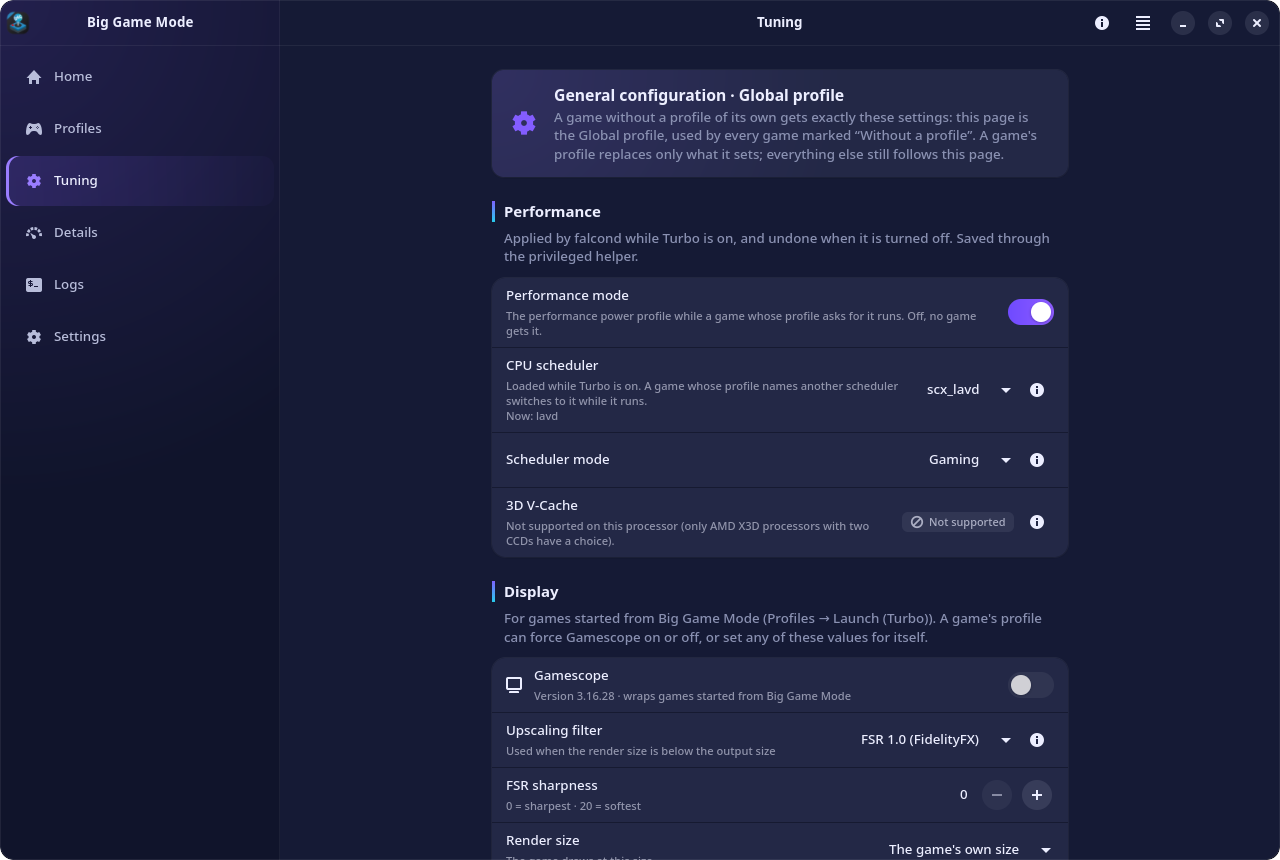
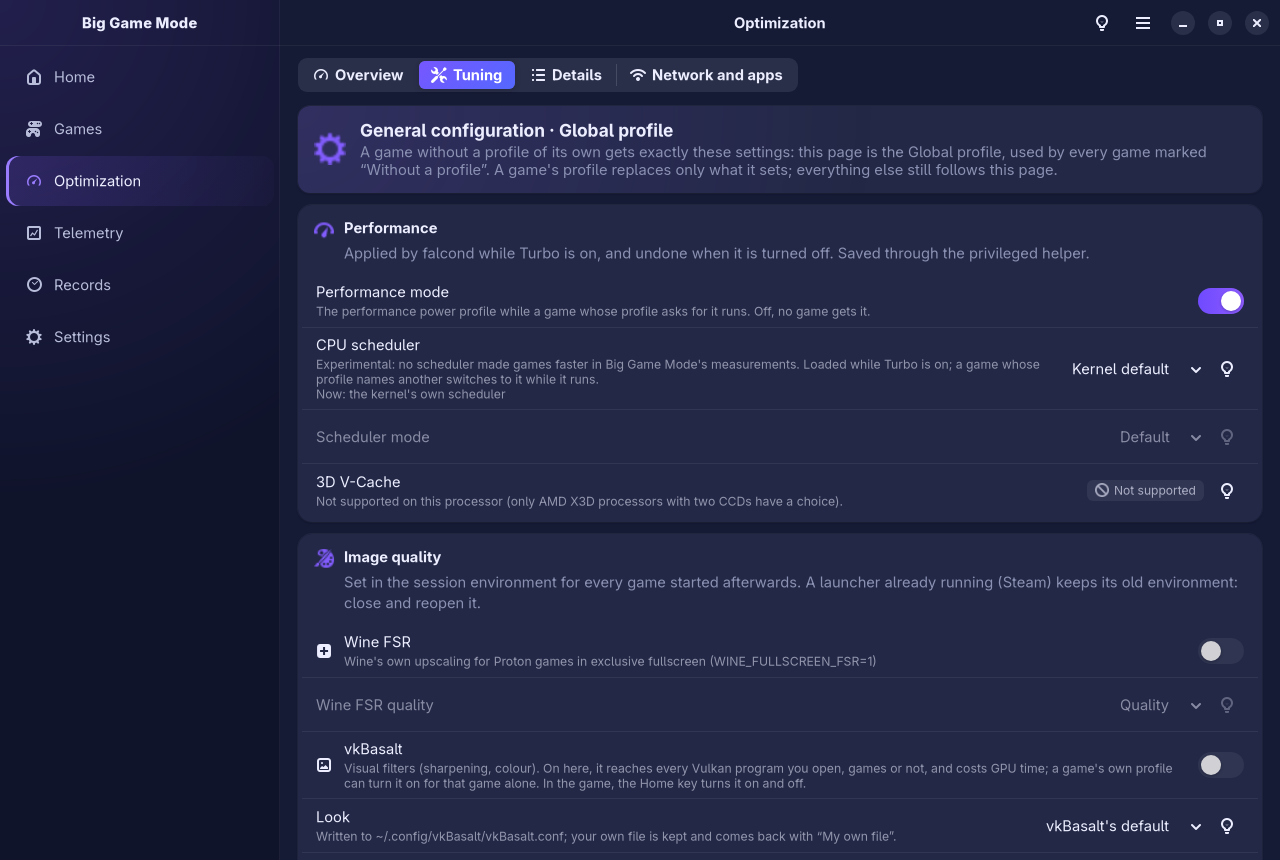
release: Big Game Mode 3.0.0
The version is 3.0.0 in the workspace, Cargo.lock, the PKGBUILD
(pkgrel 1) and the AppStream file, whose 3.0.0 release takes in what was
to be 2.5.0 (never released). The README says what is new, its badge
says the version, the troubleshooting and the architecture follow the new
pages, and the screenshots are of 3.0.0: Games and a game's page, Tuning,
AI Graphics, Records, Telemetry, Settings, About and Home in both themes.

diff --git a/README.md b/README.md
@@ -6,10 +6,10 @@
 
 **BigLinux's game mode.**<br>
 One switch for per-game performance, presets for what games should favour,
-AI Graphics with full backup and undo, and a page that shows — with evidence —
-what is really in effect.
+a library that says how each game runs on Linux, AI Graphics with full backup
+and undo, and a page that shows — with evidence — what is really in effect.
 
-[![Version](https://img.shields.io/badge/version-2.4.0-6c5ce7?style=for-the-badge)](https://github.com/biglinux/bigamemode/releases)
+[![Version](https://img.shields.io/badge/version-3.0.0-6c5ce7?style=for-the-badge)](https://github.com/biglinux/bigamemode/releases)
 [![License](https://img.shields.io/badge/license-GPL--3.0--or--later-2ea44f?style=for-the-badge)](LICENSE)
 [![Rust](https://img.shields.io/badge/Rust-1.88%2B-dea584?style=for-the-badge&logo=rust&logoColor=white)](https://www.rust-lang.org/)
 [![GTK4](https://img.shields.io/badge/GTK4-libadwaita-4a86cf?style=for-the-badge&logo=gnome&logoColor=white)](https://gnome.pages.gitlab.gnome.org/libadwaita/)
@@ -26,7 +26,7 @@ what is really in effect.
 
 <picture>
   <source media="(prefers-color-scheme: light)" srcset="docs/screenshots/home-light.png">
-  <img src="docs/screenshots/home.png" width="860" alt="Big Game Mode's Home page in simple mode: Turbo in words, three choices and Back to normal">
+  <img src="docs/screenshots/home.png" width="860" alt="Big Game Mode's Home page: the Turbo card with its three presets and Back to normal, and the Now card">
 </picture>
 
 </div>
@@ -47,7 +47,31 @@ a way back.
 > One rule runs through the project: **nothing is offered that the machine
 > cannot do, and nothing is called an improvement without a measurement.**
 
-## What's new in 2.5.0
+## What's new in 3.0.0
+
+**A new layout, one purpose per page.** Seven pages became six, in the
+order a person uses them:
+
+| Page | What it holds |
+|---|---|
+| **Home** | One **Turbo** card — the switch, the three presets under it with what the chosen one does, and Back to normal — and a **Now** card with the game being played: its cover, launcher, how long it has run, its ProtonDB and anti-cheat tags, and one coloured flag per feature it really got. With no game, it says what Turbo is doing and where to start one. |
+| **Games** | The library (formerly Profiles), each game with its profile and its compatibility. |
+| **Optimization** | Tabs: **Overview** (the machine at a glance and the recommendations for its own hardware and packages), **Tuning**, **Details**, and **Network and apps** (the connection and DNS, the programs beside the game, Steam's launch options). |
+| **Telemetry** | The live charts, as before. |
+| **Records** | Tabs: **Reports** (the last Turbo report and the support report), **Games that crashed**, and **Logs**. |
+| **Settings** | As before, with Game Information. |
+
+- **Recommendations instead of Problems.** Each says whether it is
+  *Recommended*, needs your *Attention*, is *Not supported* on this hardware,
+  *Informative*, *Already adequate*, or *Needs measurement*, and leads to the
+  page that changes it. Nothing is applied from the list: there is no
+  "apply all", a DNS is never changed and a program never paused or closed
+  without you asking.
+- **Simple and advanced share everything.** Simple mode hides the Tuning,
+  Details and Logs tabs instead of whole pages; a page saved by an older
+  version opens where its content went.
+- **Icons that are not in every theme** ship with the application, so no
+  page shows a missing image outside BigLinux's icon theme.
 
 **Your library knows how each game runs on Linux.** Every card says, at a
 glance and without leaving the library:
@@ -96,7 +120,7 @@ Mode only said "Cyberpunk 2077 closed", as for a game quit from its menu.
   Wine FSR out of that game alone from its next start, written where its
   launcher reads it (an open Steam is closed and opened again around the
   write, never while it runs a game). Nothing changes until it is chosen;
-  Profiles puts them back.
+  Games puts them back.
 - **FSR 4 can be switched off for one game**, whatever the Pretty preset
   asks for the others.
 - Details lists the last crashes, the support report carries them, and
@@ -310,7 +334,7 @@ release (HTTPS, pinned SHA-256) with a verified backup, or raises FSR 3.1 to
 FSR 4 through Proton. **Check Again**, **Repair**, **Restore** and **Diagnose**
 are always there. Games with anti-cheat are never touched.
 
-### Telemetry, details and logs
+### Optimization, Telemetry and Records
 
 **Telemetry** shows, once a second, what the processor (load, the fastest
 core's clock and the average, temperature), memory (and swap), the disks
@@ -324,15 +348,21 @@ Nothing is read while a game has the screen.
 anti-cheat status from Are We Anti-Cheat Yet? and Steam's player count; the
 game's page explains each, with its source, its age and a link.
 
-**Details** says for every part whether it is **active**, **waiting**,
-**configured but not detected**, **off**, **missing a dependency** or
-**unsupported**, with the evidence and the fix. It adds the video pipeline, a
-ranked **Problems** list, the games that closed with an error and what was in
-them, the network with a DNS comparison, background load, broken Steam launch
-options and a support report.
-**Logs** gathers falcond, the helper, power-profiles-daemon, scx_loader,
-Gamescope, GPU drivers, crashes and, from Steam games' output, Proton/Wine,
-MangoHud, vkBasalt, lsfg-vk and OptiScaler, filtered by source.
+**Optimization** opens on an **Overview**: the machine at a glance and the
+**Recommendations** for its own hardware and packages, each *Recommended*,
+*Attention*, *Not supported*, *Informative*, *Already adequate* or *Needs
+measurement*, with the command to copy or a button to the page that fixes
+it. Its **Details** tab says for every part whether it is **active**,
+**waiting**, **configured but not detected**, **off**, **missing a
+dependency** or **unsupported**, with the evidence and the fix, and adds the
+video pipeline. **Network and apps** has the network with a DNS comparison,
+background load and broken Steam launch options.
+
+**Records** keeps the last Turbo report and the support report, the games
+that closed with an error and what was in them, and the **Logs**: falcond,
+the helper, power-profiles-daemon, scx_loader, Gamescope, GPU drivers,
+crashes and, from Steam games' output, Proton/Wine, MangoHud, vkBasalt,
+lsfg-vk and OptiScaler, filtered by source.
 
 ### Measure the difference
 
@@ -350,31 +380,44 @@ Closing the window keeps Big Game Mode in the tray, with Turbo, the presets and
 
 <table>
 <tr>
-<td width="50%"><img src="docs/screenshots/profiles.png" alt="Profiles: the library of installed games, each with Play"></td>
-<td width="50%"><img src="docs/screenshots/tuning.png" alt="Tuning: performance, Gamescope, image quality and frame generation"></td>
+<td width="50%"><img src="docs/screenshots/games.png" alt="Games: the library of installed games, with ProtonDB, anti-cheat and player counts"></td>
+<td width="50%"><img src="docs/screenshots/game.png" alt="A game's page: Linux compatibility, anti-cheat and Steam activity"></td>
 </tr>
 <tr>
-<td align="center"><b>Profiles</b>: every installed game, Play on each</td>
-<td align="center"><b>Tuning</b>: what the machine cannot do is shown as such</td>
+<td align="center"><b>Games</b>: every installed game, with how it runs on Linux</td>
+<td align="center"><b>A game's page</b>: its compatibility, sources and dates</td>
 </tr>
 <tr>
-<td><img src="docs/screenshots/ai-graphics.png" alt="AI Graphics: the verdict for a game and what to do"></td>
-<td><img src="docs/screenshots/details.png" alt="Details: what is in effect, with the evidence"></td>
+<td><img src="docs/screenshots/optimization.png" alt="Optimization: the machine at a glance and its recommendations"></td>
+<td><img src="docs/screenshots/details.png" alt="Optimization, Details: what is in effect, with the evidence"></td>
 </tr>
 <tr>
-<td align="center"><b>AI Graphics</b>: the verdict first, then why</td>
+<td align="center"><b>Optimization</b>: what would help this machine</td>
 <td align="center"><b>Details</b>: what is in effect, with the evidence</td>
 </tr>
 <tr>
-<td><img src="docs/screenshots/logs.png" alt="Logs: every source a game session depends on"></td>
-<td><img src="docs/screenshots/settings.png" alt="Settings: theme, background start, notifications and advanced options"></td>
+<td><img src="docs/screenshots/tuning.png" alt="Tuning: performance, Gamescope, image quality and frame generation"></td>
+<td><img src="docs/screenshots/ai-graphics.png" alt="AI Graphics: the verdict for a game and what to do"></td>
 </tr>
 <tr>
-<td align="center"><b>Logs</b>: every source, filtered</td>
-<td align="center"><b>Settings</b>: themes, and the switch for advanced options</td>
+<td align="center"><b>Tuning</b>: what the machine cannot do is shown as such</td>
+<td align="center"><b>AI Graphics</b>: the verdict first, then why</td>
 </tr>
 <tr>
-<td colspan="2" align="center"><img src="docs/screenshots/about.png" width="430" alt="About Big Game Mode"></td>
+<td><img src="docs/screenshots/records.png" alt="Records: the last Turbo report"></td>
+<td><img src="docs/screenshots/telemetry.png" alt="Telemetry: processor, memory, disks, network and every GPU"></td>
+</tr>
+<tr>
+<td align="center"><b>Records</b>: the Turbo report, crashes and logs</td>
+<td align="center"><b>Telemetry</b>: second by second</td>
+</tr>
+<tr>
+<td><img src="docs/screenshots/settings.png" alt="Settings: theme, background start, notifications, game information"></td>
+<td><img src="docs/screenshots/about.png" alt="About Big Game Mode"></td>
+</tr>
+<tr>
+<td align="center"><b>Settings</b>: themes, game information, advanced options</td>
+<td align="center"><b>About</b></td>
 </tr>
 </table>
 
@@ -454,19 +497,19 @@ terminal without opening a window (`--network` adds the DNS measurements), and
 | Symptom | What to do |
 |---|---|
 | Games seem stuck at 60 FPS | Before 2.4.0, *Locked 60 FPS* and *Enhanced graphics* capped every game at 60. Choose **Fastest**, then reopen Steam: it keeps the environment it was opened with |
-| Stutter in big games that no setting fixes | Details → Problems says when the game library is on a hard disk or adaptive sync is off: move the games to an SSD, turn adaptive sync on |
-| I can't find Tuning, Details or Logs | Settings → Advanced → **Show advanced options** |
-| Games get no performance profile | Install `falcond`: without it Turbo applies only the general settings. Details → Problems names anything else missing |
-| A game does not get its profile | Details shows whether falcond applies it and why not; falcond 2.0.3 or newer is needed for games that rename their main thread (Cyberpunk 2077) |
+| Stutter in big games that no setting fixes | Optimization → Overview says when the game library is on a hard disk or adaptive sync is off: move the games to an SSD, turn adaptive sync on |
+| I can't find Tuning, Details or Logs | They are tabs of Optimization and Records, shown in advanced mode: Settings → Advanced → **Show advanced options** |
+| Games get no performance profile | Install `falcond`: without it Turbo applies only the general settings. Optimization → Overview names anything else missing |
+| A game does not get its profile | Optimization → Details shows whether falcond applies it and why not; falcond 2.0.3 or newer is needed for games that rename their main thread (Cyberpunk 2077) |
 | A preset does not reach Steam's games | Steam keeps the settings it was opened with: use **Reopen Steam** in the notice |
 | A frame generation option is disabled | lsfg-vk is not installed or your `Lossless.dll` is not usable by it; the row says which |
-| AI Graphics left a game broken | Profiles → the game's menu → **Restore the game's graphics**, or AI Graphics → **Repair** |
+| AI Graphics left a game broken | Games → the game's menu → **Restore the game's graphics**, or AI Graphics → **Repair** |
 | No tray icon on GNOME | Install and enable an AppIndicator extension |
 | "falcond is not compatible with this processor" | The installed falcond was built for a newer x86-64 level than this processor's (falcond 2.0.14 built for x86-64-v3 stops with SIGILL without AVX2/BMI2). Turbo still comes on with the general settings; per-game profiles need a falcond built for the x86-64 baseline. Turning Turbo off and on again does not help. [CPU compatibility](docs/CPU-COMPATIBILITY.md) |
 | A game's tag says "Denied" or "Broken" | Its anti-cheat refuses Linux or does not work there, as players report it: online play will not work, whatever Big Game Mode or Proton does. Open the tag for the source |
 | A game shows no rating | It is not a Steam game, or nobody has reported on it yet, or Big Game Mode has not been able to ask: Settings → Game Information says which |
 | A game closed by itself | Big Game Mode says so when the game left a sign of a crash, with what was in it: **Leave them out of this game** for a while tells whether vkBasalt or FSR 4 had a part in it. A crash with nothing added is the game's, its drivers' or the system's |
-| Something else | Details → **Support report**, or `bigame-ui --diagnostics`, and the **Logs** page |
+| Something else | Records → Reports → **Support report**, or `bigame-ui --diagnostics`, and Records → **Logs** |
 
 ## How it works
 

diff --git a/docs/ARCHITECTURE.md b/docs/ARCHITECTURE.md
@@ -18,7 +18,7 @@ error.
 
 | Component | Where | Responsibility |
 |---|---|---|
-| UI | `bigame-engine/bigame-ui` (GTK4, libadwaita, `ksni` tray) | Never runs as root. Pages: Home, Profiles, Telemetry, Tuning, Details, Logs, Settings, and the Optimization Report over Home. Simple mode (the default, `advanced_mode = false` in `settings.toml`) shows Home, Profiles, Telemetry and Settings only, with Play on every game and Back to normal; Settings → Advanced shows the rest. While a game runs, no page reads anything unless its window is the active one, the game's exit is watched through a pidfd, and the process does its disk reads in the idle I/O class (a game it starts gets the normal class back). `--background` starts it hidden in the tray (login autostart); `--diagnostics [--network]` prints the support report and exits. |
+| UI | `bigame-engine/bigame-ui` (GTK4, libadwaita, `ksni` tray) | Never runs as root. Pages: Home (the Turbo card and the Now card), Games (the library), Optimization (tabs Overview, Tuning, Details, Network and apps), Telemetry, Records (tabs Reports, Games that crashed, Logs) and Settings; `win.go` opens a page or a page's tab (`optimization/tuning`), and a page saved by an earlier version opens where its content went (`window::migrate_tab`). Simple mode (the default, `advanced_mode = false` in `settings.toml`) hides the Tuning, Details and Logs tabs, with Play on every game and Back to normal; Settings → Advanced shows them. Icons the application uses that Adwaita lacks are in its resources, behind the icon theme's own. While a game runs, no page reads anything unless its window is the active one, the game's exit is watched through a pidfd, and the process does its disk reads in the idle I/O class (a game it starts gets the normal class back). `--background` starts it hidden in the tray (login autostart); `--diagnostics [--network]` prints the support report and exits. |
 | Core | `bigame-engine/bigame-core` (library, no UI) | Hardware and capability detection, Turbo (`turbo.rs`) and its presets (`turbo_preset.rs`: a layer of session variables over Tuning while Turbo is on — DXVK/VKD3D-Proton frame caps, Wine FSR, vkBasalt, `FSR4_UPGRADE`; native games launched by Big Game Mode are capped with MangoHud's limiter), the Booster engine (`booster/`), profiles and their migration, running-game detection (`running.rs`), recommendations (`recommend.rs`), the launch pipeline (`launcher.rs`, `gamescope.rs`), AI Graphics (`graphics/`), benchmarking (`benchmark/`), network measurement, logs, health and diagnostics. |
 | Helper | `bigame-engine/bigame-daemon` (root, system bus `com.biglinux.BiGameMode`, object `/com/biglinux/BiGameMode`) | The handful of writes the UI cannot do: `SaveProfile`, `DeleteProfile`, `ApplyFalcondConfig`, `SetVCacheMode`, `SetCpuGovernor`, `SetCpuEpp`, `SetGpuDpmLevel`, `SetGameBackend`, `ReleaseGameBackend`, plus the unauthenticated `Ping`. Started on demand by D-Bus through `bigame-daemon.service`. See [SECURITY.md](SECURITY.md). |
 | falcond | external system service | Matches game processes by name and applies their profile — performance power profile, sched-ext scheduler (through `scx_loader`), 3D V-Cache mode, idle inhibit — and restores everything when the game exits. |
@@ -567,9 +567,11 @@ of it needs root.
   and scale (`sparkline::chart`, newest point at the right edge), and an
   `AdwBreakpointBin` that only turns rows into columns (4 → 2 × 2 → stacked
   GPUs → one column).
-- **Details** is what is really happening. One reading
+- **Optimization**'s Overview and Details tabs are what is really
+  happening. One reading
   (`bigame_core::overview::Snapshot`) taken off the main thread every 3 s
-  while the page is on screen (6 s unfocused), and again when falcond's
+  while one of those tabs is on screen (6 s unfocused), at once when one is
+  opened, and again when falcond's
   status file or the running game changes, feeds the overview chips, the
   Performance rows (Turbo, falcond and the profile it applied, the power
   profile, the scheduler, 3D V-Cache) and the Video pipeline rows
@@ -689,7 +691,7 @@ where the reference measurements were made, behaved the same unless noted.
   never with a restart, which would tear down a running game's profile.
 - If falcond is killed with SIGKILL while a profile is active, systemd restarts
   it and the new instance snapshots the boosted state. Big Game Mode does not
-  paper over that with a second writer; Details → Problems warns when
+  paper over that with a second writer; Optimization → Overview warns when
   systemd has restarted falcond.
 - A user profile with the same name as a shipped one (ignoring case) is laid
   over it field by field (2.0.14; 2.0.2 ignored it). At most 64 profiles are
